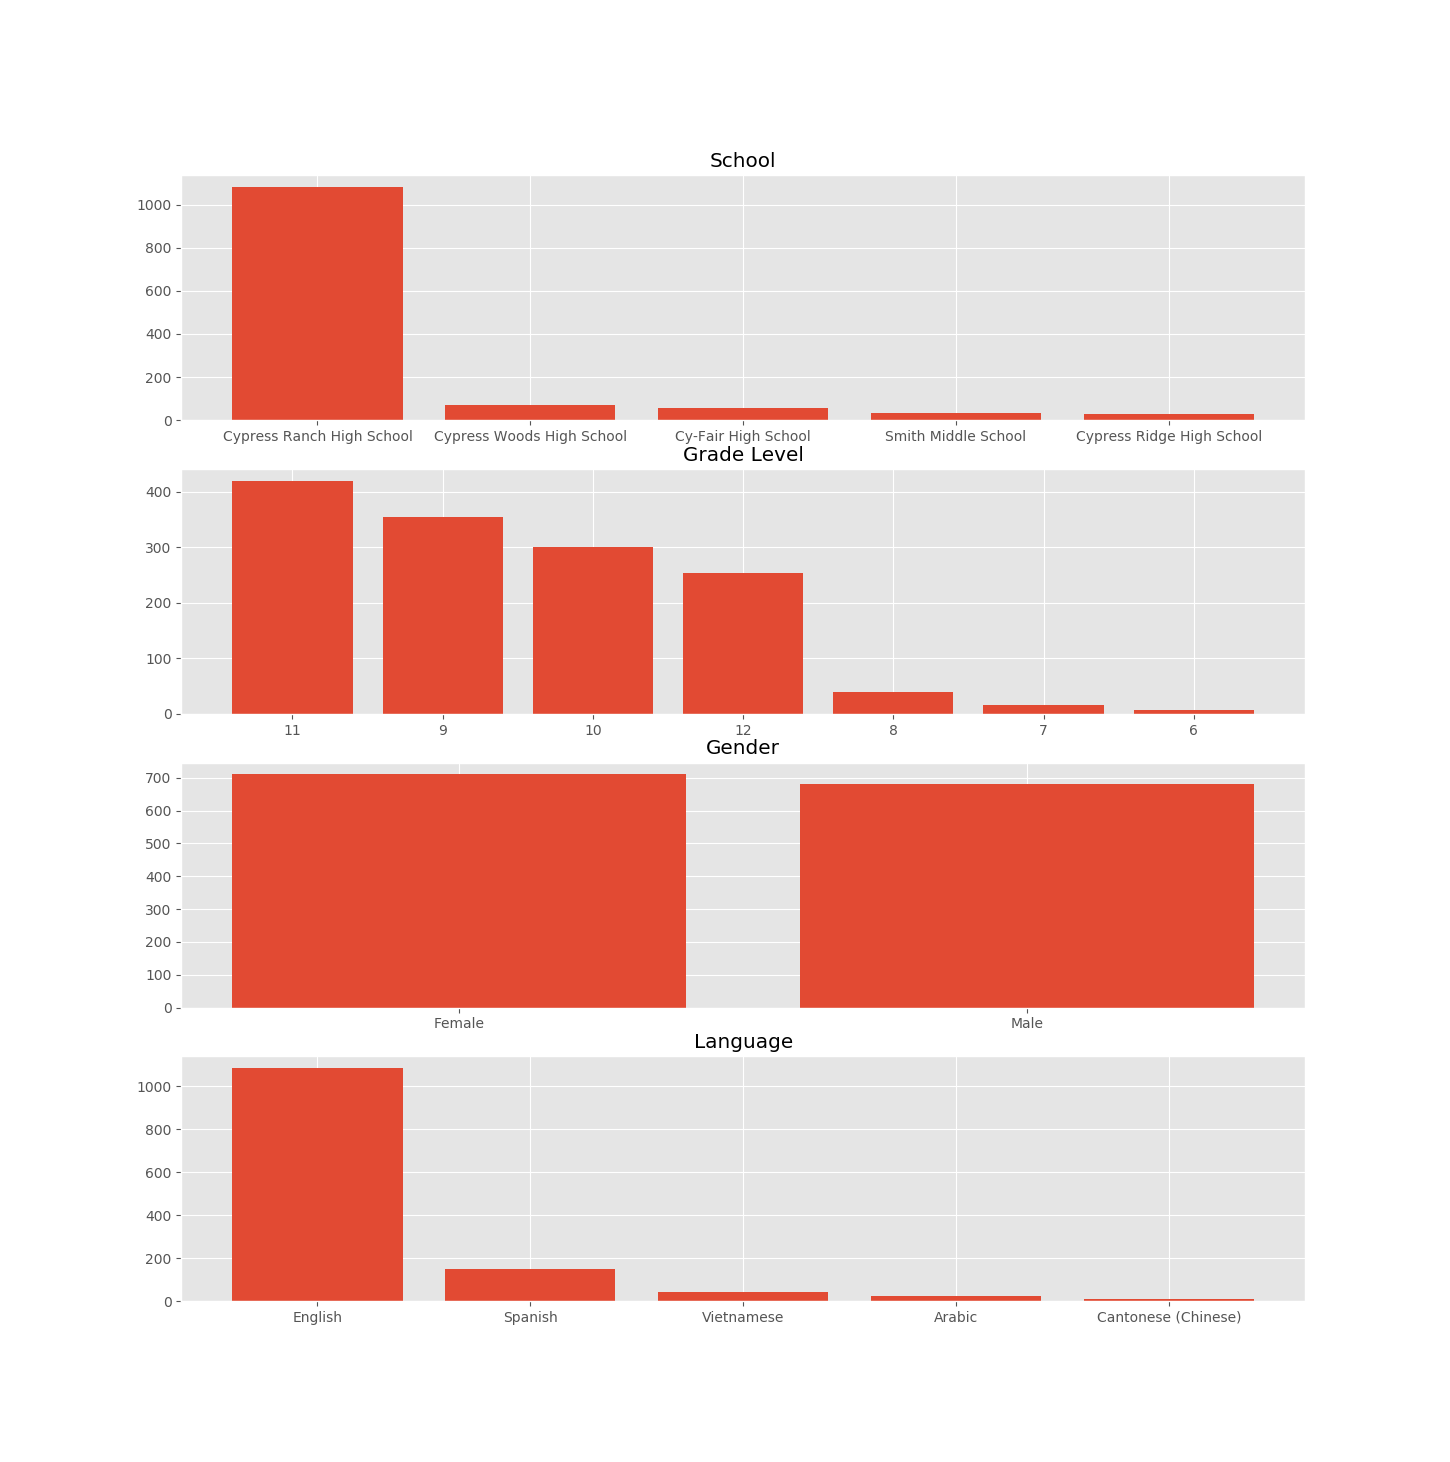
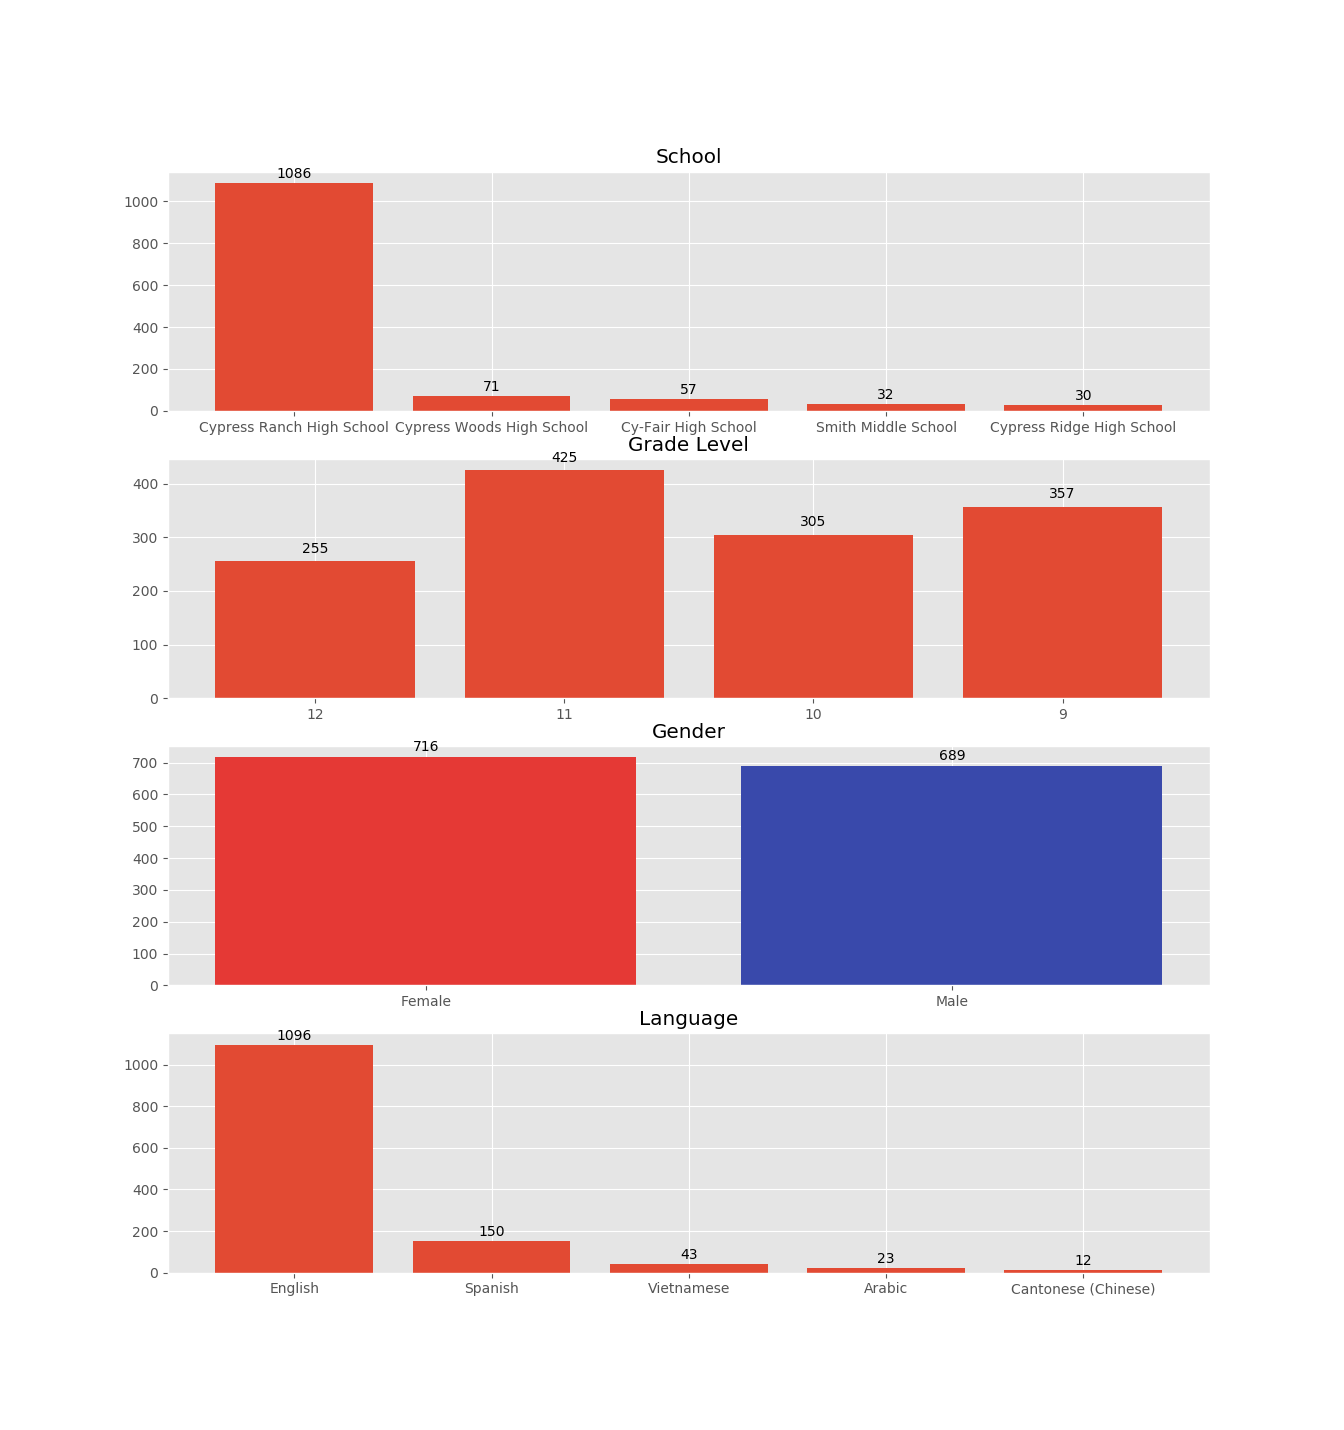
Updated Data

diff --git a/other_visuals/show_demo_stats.py b/other_visuals/show_demo_stats.py
@@ -18,9 +18,10 @@ def create_plot():
     """Plots with matplot lib"""
     import matplotlib.pyplot as plt
 
-    def make_bar(plot, data_dict, title, limit=None, color=None):
+    def make_bar(plot, data_dict, title, limit=None, color=None, keys=None):
 
-        keys = sorted(data_dict.keys(), key=lambda key: -data_dict[key])
+        if not keys:
+            keys = sorted(data_dict.keys(), key=lambda key: -data_dict[key])
 
         if limit:
             keys = keys[:limit]
@@ -28,9 +29,16 @@ def create_plot():
         indexes = list(range(len(keys)))
 
         plot.set_title(title)
-        plot.bar(indexes, [data_dict[k] for k in keys], color=color)
+        bars = plot.bar(indexes, [data_dict[k] for k in keys], color=color)
         plot.set_xticks(indexes)
         plot.set_xticklabels([k.title() for k in keys])
+
+        for rect in bars:
+            height = rect.get_height()
+            plot.text(rect.get_x() + rect.get_width() / 2.,
+                    height + 10,
+                    '%d' % int(height),
+                    ha='center', va='bottom')
 
 
     plt.style.use('ggplot')
@@ -38,8 +46,8 @@ def create_plot():
     f, ((ax1, ax2, ax3, ax4)) = plt.subplots(4, 1)
 
     make_bar(ax1, schools, 'School', 5)
-    make_bar(ax2, grades, 'Grade Level')
-    make_bar(ax3, genders, 'Gender')
+    make_bar(ax2, grades, 'Grade Level', keys=['12', '11', '10', '9'])
+    make_bar(ax3, genders, 'Gender', color=['#E53935', '#3949AB'])
     make_bar(ax4, languages, 'Language', 5)
 
     plt.show()
